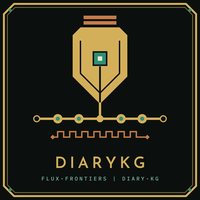
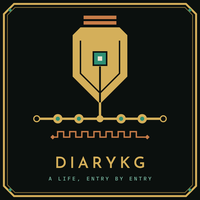
fix(brand): a tagline under the name
Set "A LIFE, ENTRY BY ENTRY" under the name on the mark and banner instead of the
organization and repository name, which repeated the name above it.

Changed region(s): [[0.21, 0.87, 0.54, 0.93], [0.57, 0.87, 0.81, 0.93]]

diff --git a/scripts/build_logo.py b/scripts/build_logo.py
@@ -50,7 +50,7 @@ OBSIDIAN, COPPER, GOLD, GREEN, MINT, SILK = (
 )
 
 NAME = "DIARYKG"
-PART = "FLUX-FRONTIERS | DIARY-KG"
+PART = "A LIFE, ENTRY BY ENTRY"
 
 
 def rect(

diff --git a/CHANGELOG.md b/CHANGELOG.md
@@ -21,6 +21,9 @@ and this project adheres to [Semantic Versioning](https://semver.org/spec/v2.0.0
   is centered on the banner's height; `scripts/build_logo.py` draws it this
   way and the banner is redrawn.
 
+- **The line under the name is a tagline.** The mark and banner read
+  "A LIFE, ENTRY BY ENTRY" instead of the organization and repository name.
+
 ## [0.101.0] - 2026-10-25
 
 Step 3 of the fleet's MCP centralization (kgrag_priv
